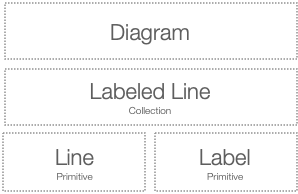
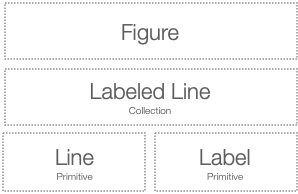
release 0.3.6

Changed region(s): [[0.3624, 0.1237, 0.6342, 0.2474]]

diff --git a/docs/tutorials/intro.md b/docs/tutorials/intro.md
@@ -29,7 +29,7 @@ To create this figure, we might use a figure element hierarchy like:
 
 <p style="text-align: center"><img src="./tutorials/ex1-hierarchy.png"></p>
 
-The drawn elements, the line and text, are primitives. They are created in the simple no rotation case. If the line is 0.8 long, and it starts at (0, 0), then the text might be at (0.4, 0.1)
+The drawn elements, the line and label, are primitives. They are created in the simple no rotation case. If the line is 0.8 long, and it starts at (0, 0), then the text might be at (0.4, 0.1)
 
 <p style="text-align: center"><img src="./tutorials/ex1-collection.png"></p>
 
@@ -51,7 +51,7 @@ When the canvas aspect ratio is not a square, or it is more convenient to create
 
 These are three examples of different coordinate spaces - *pixel space*, *GL space* and *figure space*.
 
-If you want to move or modify an element, you need to think about what you want to modify it *relative* to. Do you want to move it relative to other elements in the figure? In other words, do you want to move it in *figure space*? Or do you want to move it relative to other elements within the parent, or local collection - *local space*. Alternately, you might want to modify the vertices of the shape, in *vertex space*.
+If you want to move or modify an element, you need to think about what you want to modify it *relative* to. Do you want to move it relative to other elements in the figure? In other words, do you want to move it in *figure space*? Or do you want to move it relative to other elements within the parent, or local collection - *local space*. Alternately, you might want to modify the vertices of the shape, in *draw space*.
 
 In simple figures, where no collections are used, or collections don't transform their child elements you don't really need to think about what space you are working in. Figure space will be the same as local space and vertex space. You won't care about the higher level GL or pixel spaces.
 
